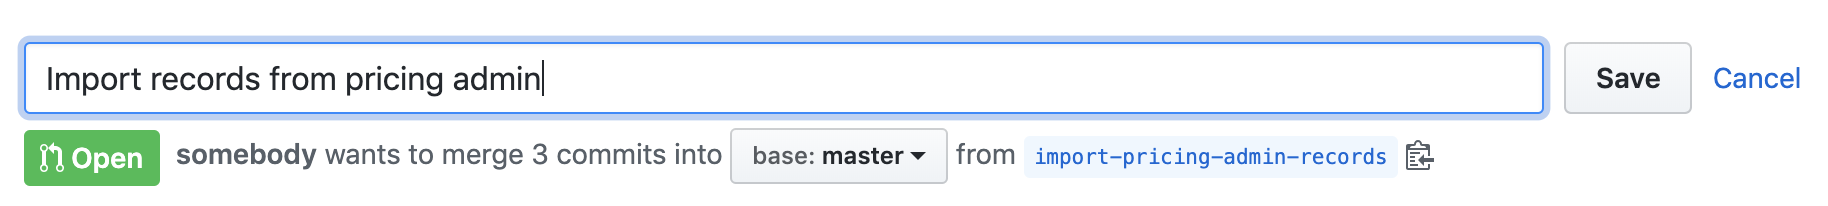
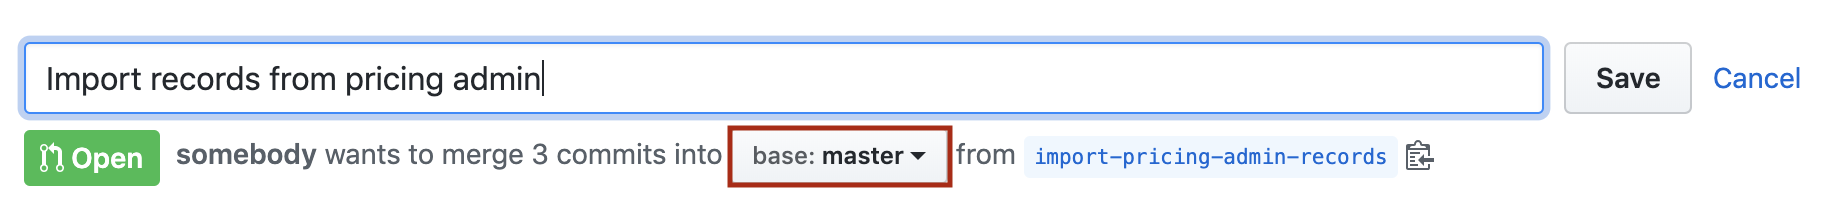
Improve docs for GitHub PRs

Changed region(s): [[0.3742, 0.5825, 0.5301, 0.932]]

diff --git a/README.md b/README.md
@@ -137,5 +137,10 @@ Rebasing the following branches: ["master", "a", "b", "c"]
 GitHub supports setting a base branch of a pull request via the user interface. You'll need to do this for all branches
 in a chain manually for now.
 
+Edit a pull request:
+
 ![Pull request header](https://github.com/Shopify/git-chain/blob/master/docs/screenshot_pr_header.png)
+
+Setting the base branch:
+
 ![Edit pull request base](https://github.com/Shopify/git-chain/blob/master/docs/screenshot_pr_header_edit.png)
